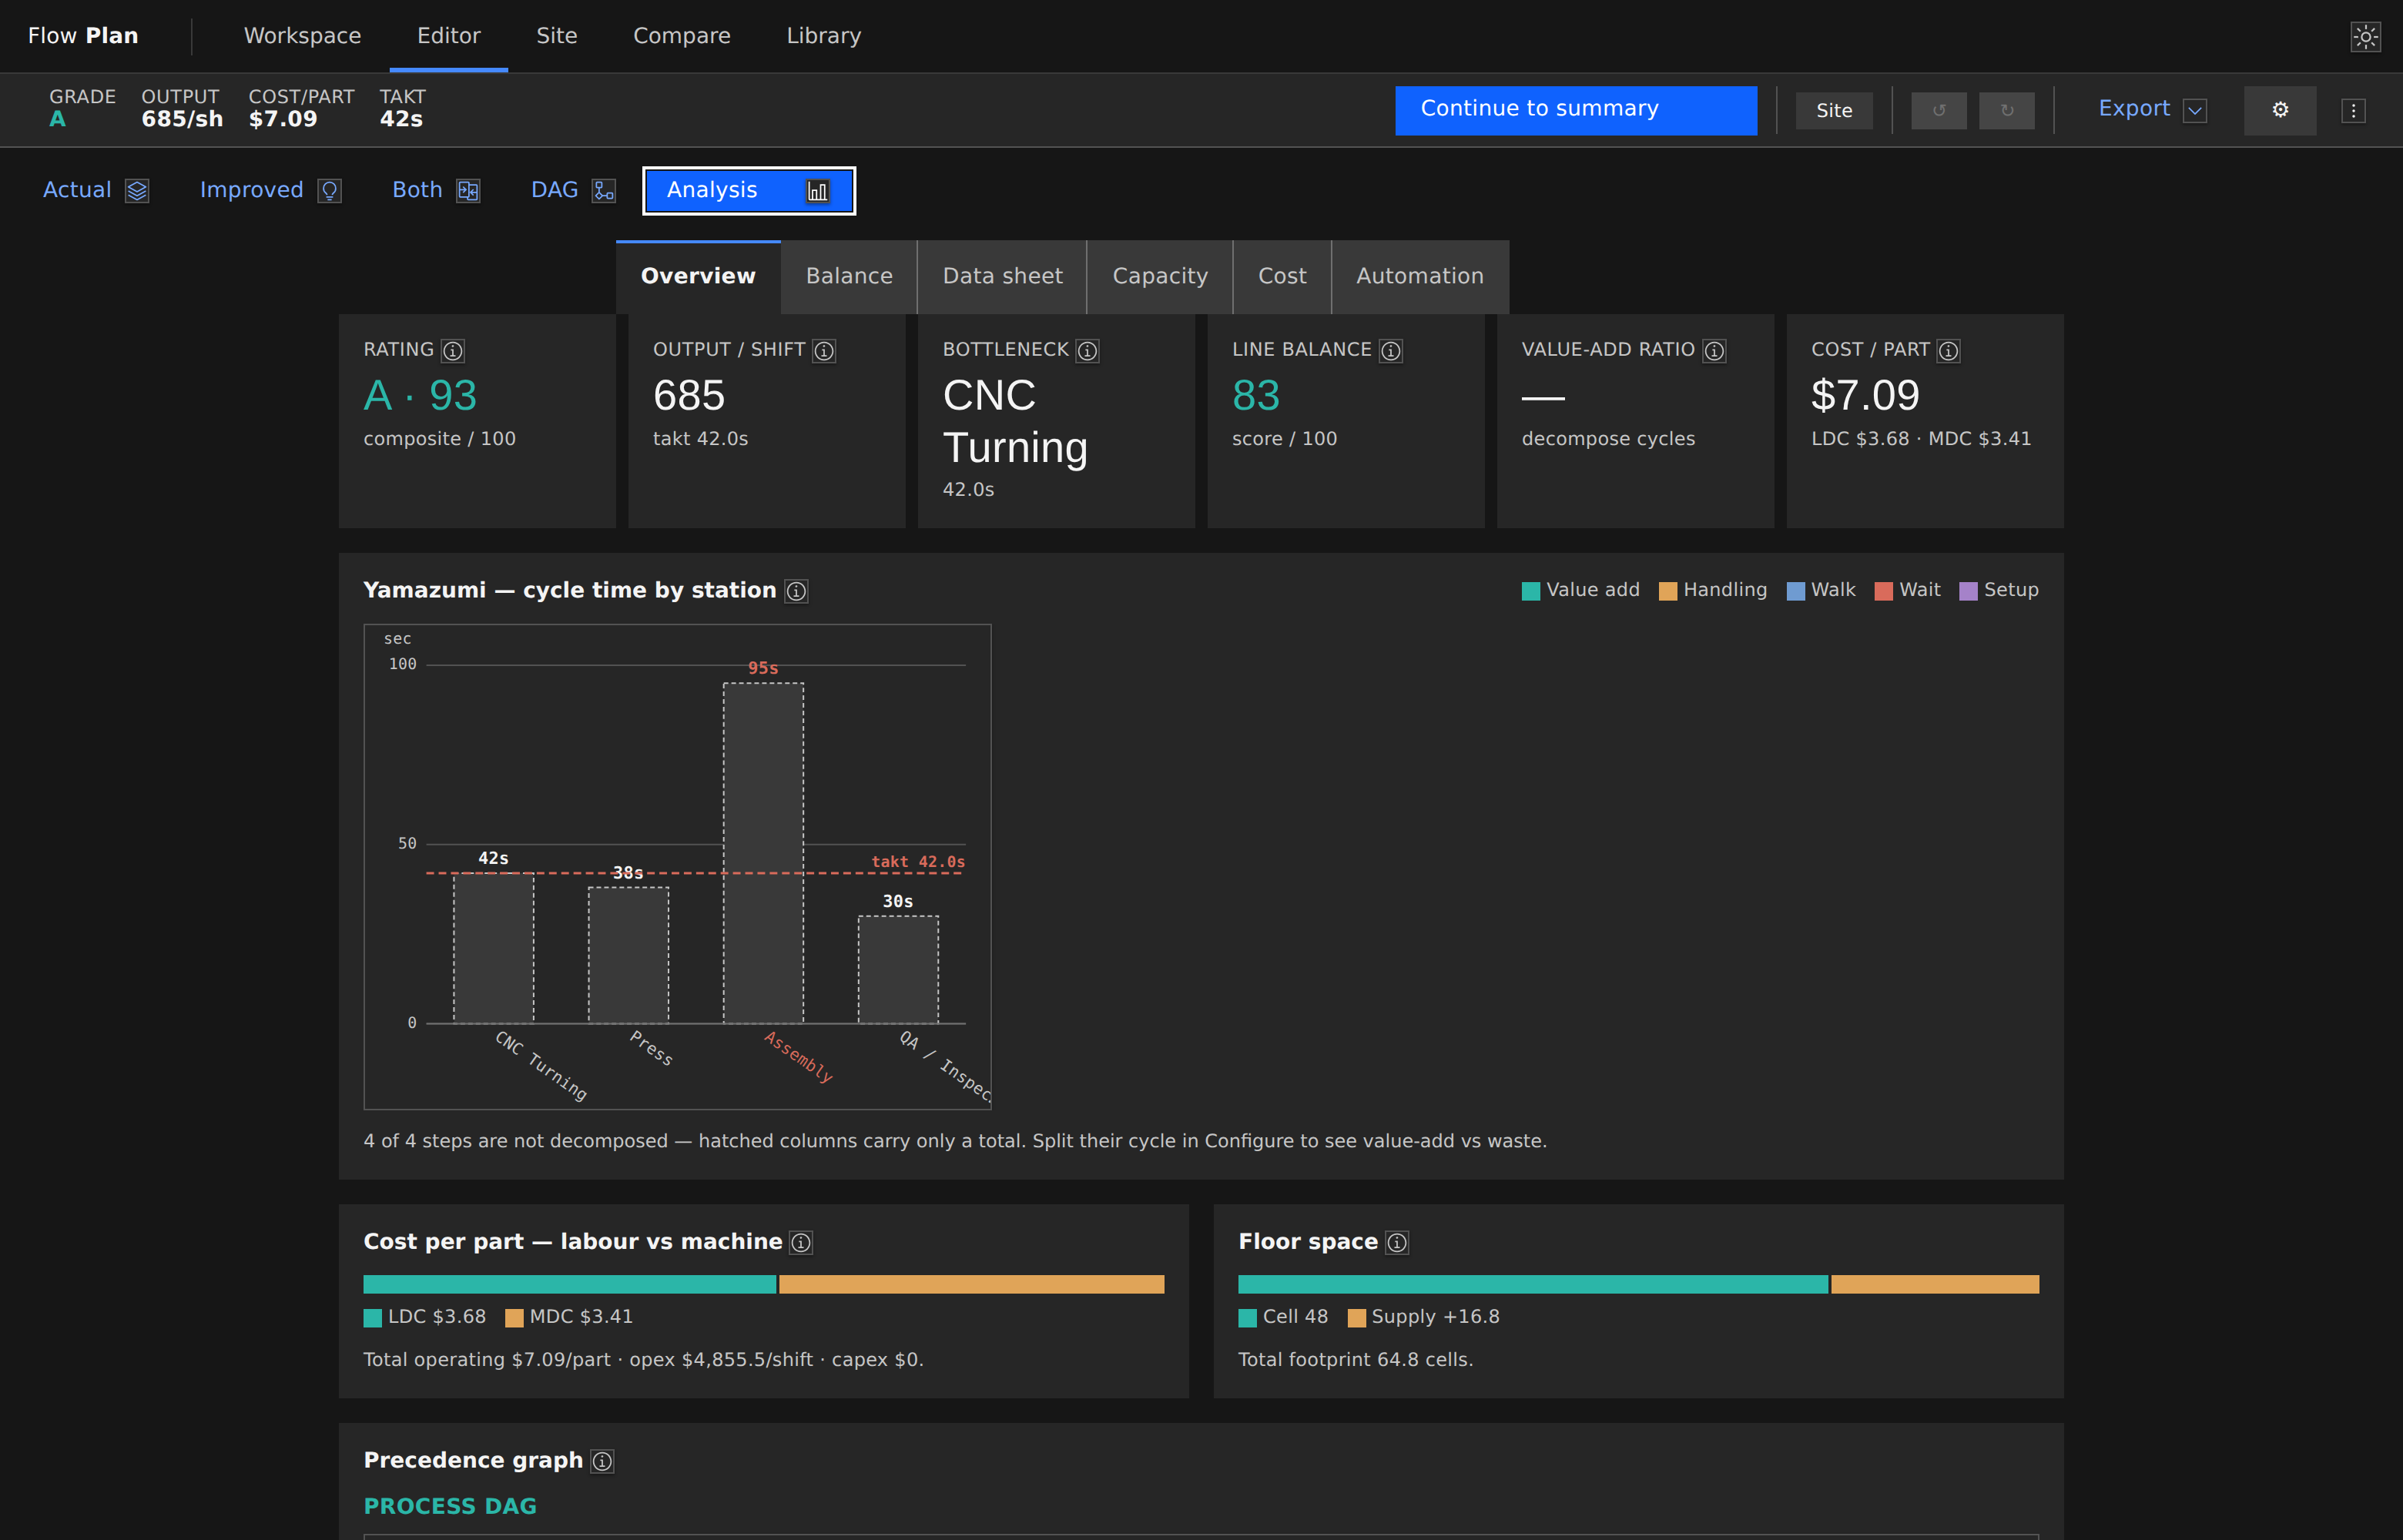
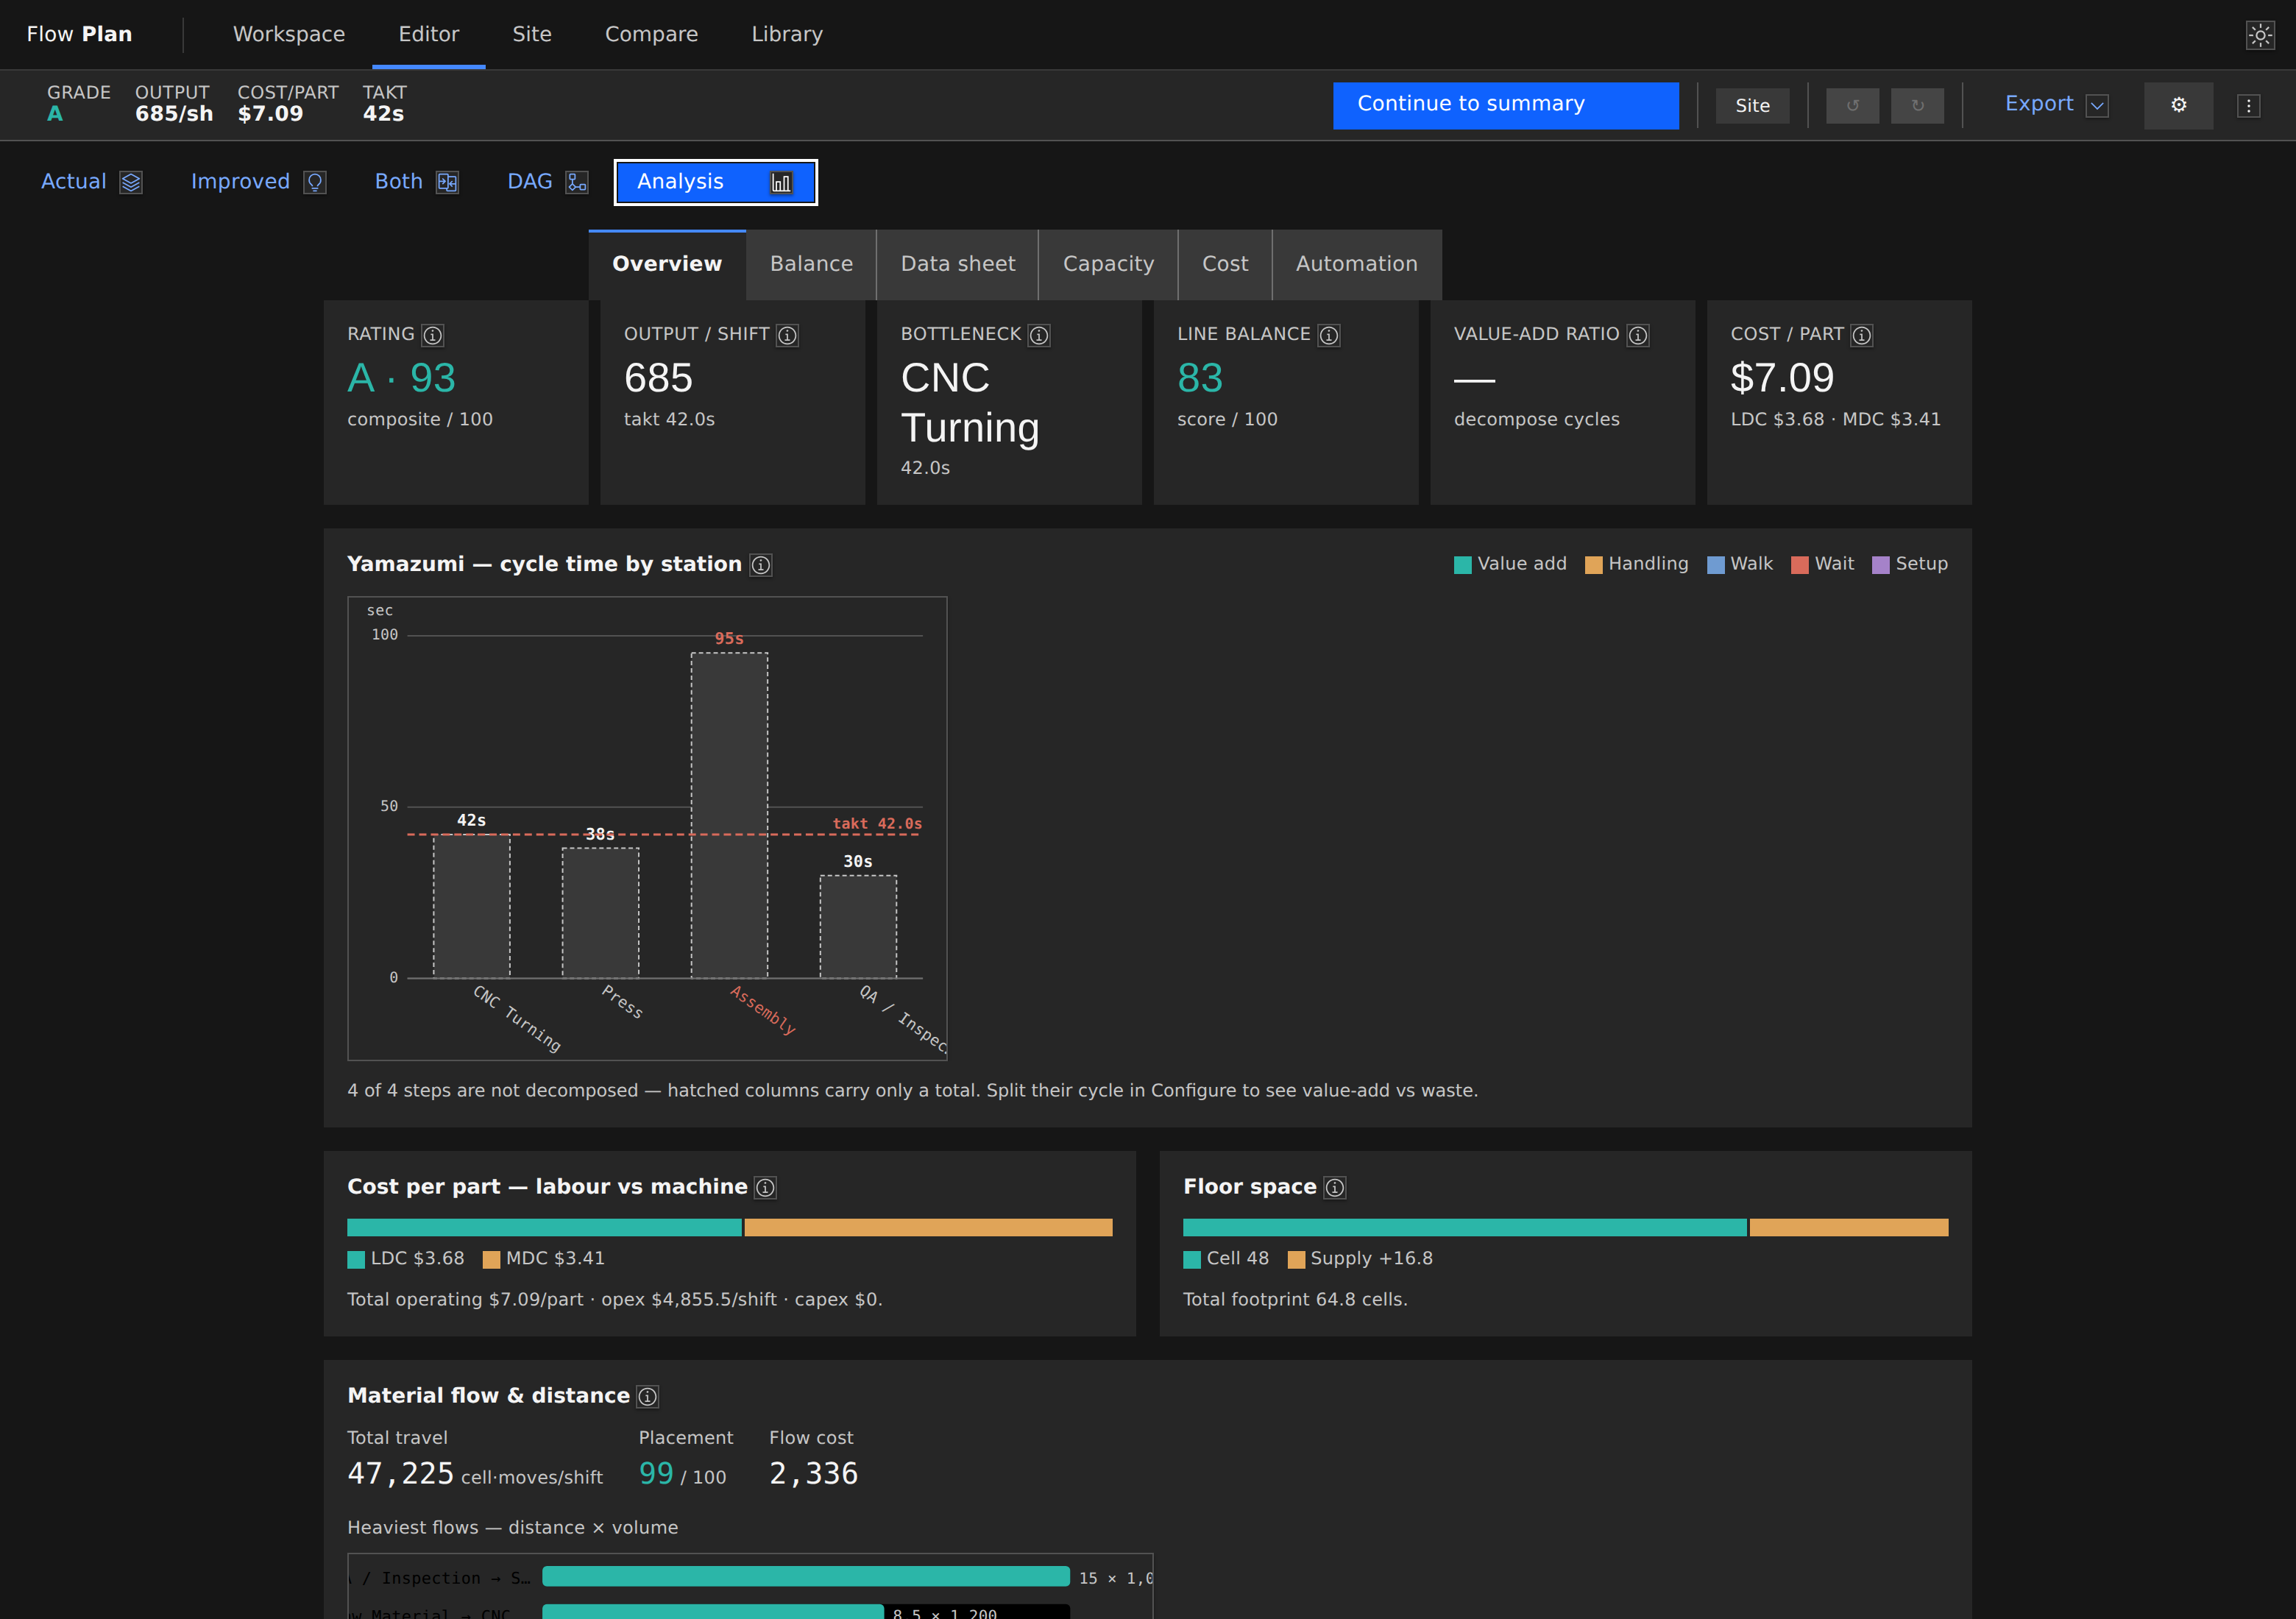
P0 functional gap: material-flow & distance card (layout-optimization core)
A layout tool must surface material travel. New Analysis card built entirely
from the engine's existing flow detail (no new solver):
- Total travel / shift (Σ volume × rectilinear distance), placement score, and
  flow cost as inline KPIs.
- "Heaviest flows — distance × volume": the top inter-station flows ranked by
  travel, so the engineer sees where re-placing stations saves the most.

Closes the top P0 in docs/product-gap-analysis.md; screenshot refreshed.
Full suite green (406).

Claude-Session: https://claude.ai/code/session_01LiCdo96zQ4uaX26ydaWuX1

diff --git a/packages/web/src/components/AnalysisDashboard.tsx b/packages/web/src/components/AnalysisDashboard.tsx
@@ -3,7 +3,7 @@ import { Tile } from "@carbon/react";
 import { cycleAnalysis } from "@flowplan/core/engine/cycle";
 import { classifyFreedom, type FreedomFinding } from "@flowplan/core/engine/freedom";
 import { costAnalysis } from "@flowplan/core/engine/cost";
-import { YamazumiChart } from "./charts";
+import { YamazumiChart, BarChart } from "./charts";
 import { DagView } from "./DagView";
 import { OpenPointsSection, ImprovementList, type PanelProps } from "./panels";
 import { AMBER, CYCLE_COL, PURPLE, RED, TEAL, TEXTD, scoreColor } from "./colors";
@@ -94,6 +94,16 @@ export function AnalysisDashboard(props: PanelProps) {
   const money = (n: number) => cost.currency + n.toLocaleString(undefined, { maximumFractionDigits: 2 });
   const openStation = (id: string) => { setView("actual"); setSel(id); setTab("inspect"); };
 
+  // Material flow & distance — layout optimisation minimises material travel.
+  // The heaviest flows (volume × rectilinear distance) are where re-placing
+  // stations saves the most; all from the engine's existing flow detail.
+  const nameOf = (id: string) => model.stations.find((s) => s.id === id)?.name ?? id;
+  const flowBars = [...(rating.actual.flowDetail ?? [])]
+    .filter((f) => f.travel > 0)
+    .sort((a, b) => b.travel - a.travel)
+    .slice(0, 6)
+    .map((f) => ({ label: `${nameOf(f.from)} → ${nameOf(f.to)}`, value: f.travel, display: `${f.dist} × ${f.volume.toLocaleString()}`, color: TEAL }));
+
   const cycleLegend = <Legend items={(Object.keys(CYCLE_COL) as (keyof typeof CYCLE_COL)[]).map((k) => ({ color: CYCLE_COL[k], label: CYCLE_LABEL[k] }))} />;
 
   return (
@@ -139,6 +149,25 @@ export function AnalysisDashboard(props: PanelProps) {
             ]}
           />
           <div className="bi-note">Total footprint {cost.floorSpace.total.toLocaleString()} {cost.floorSpace.unit}.</div>
+        </ChartCard>
+      </div>
+
+      {/* Material flow & distance — the core of layout optimisation. */}
+      <div className="bi-row">
+        <ChartCard title="Material flow & distance" help="Layout optimisation minimises material travel. Total travel = Σ(volume × rectilinear distance). The heaviest flows are where re-placing stations saves the most; distance is in grid cells (× volume/shift).">
+          <div className="bi-flowkpis">
+            <span className="bi-flowkpi"><span className="bi-flowkpi__lab">Total travel</span><span className="bi-flowkpi__val">{Math.round(rating.actual.travel).toLocaleString()}</span> cell·moves/shift</span>
+            <span className="bi-flowkpi"><span className="bi-flowkpi__lab">Placement</span><span className="bi-flowkpi__val" style={{ color: scoreColor(rating.scores.placement) }}>{rating.scores.placement.toFixed(0)}</span> / 100</span>
+            <span className="bi-flowkpi"><span className="bi-flowkpi__lab">Flow cost</span><span className="bi-flowkpi__val">{Math.round(rating.actual.flowCost).toLocaleString()}</span></span>
+          </div>
+          {flowBars.length ? (
+            <>
+              <div className="bi-card__sublab">Heaviest flows — distance × volume</div>
+              <div className="bi-scroll"><BarChart bars={flowBars} /></div>
+            </>
+          ) : (
+            <p className="bi-empty">No inter-station material flows yet.</p>
+          )}
         </ChartCard>
       </div>
 

diff --git a/packages/web/src/styles/tokens.css b/packages/web/src/styles/tokens.css
@@ -1557,3 +1557,30 @@ input.est-field {
   color: var(--cds-text-secondary);
   padding: var(--sp-05) 0;
 }
+
+/* Material-flow card: inline KPI row + sub-label. */
+.bi-flowkpis {
+  display: flex;
+  flex-wrap: wrap;
+  gap: var(--sp-06);
+  margin-bottom: var(--sp-05);
+}
+.bi-flowkpi {
+  font-size: 0.75rem;
+  color: var(--cds-text-secondary);
+}
+.bi-flowkpi__lab {
+  display: block;
+  margin-bottom: var(--sp-02);
+}
+.bi-flowkpi__val {
+  font-size: 1.25rem;
+  font-weight: 400;
+  color: var(--cds-text-primary);
+  font-family: "IBM Plex Mono", ui-monospace, monospace;
+}
+.bi-card__sublab {
+  font-size: 0.75rem;
+  color: var(--cds-text-secondary);
+  margin-bottom: var(--sp-03);
+}